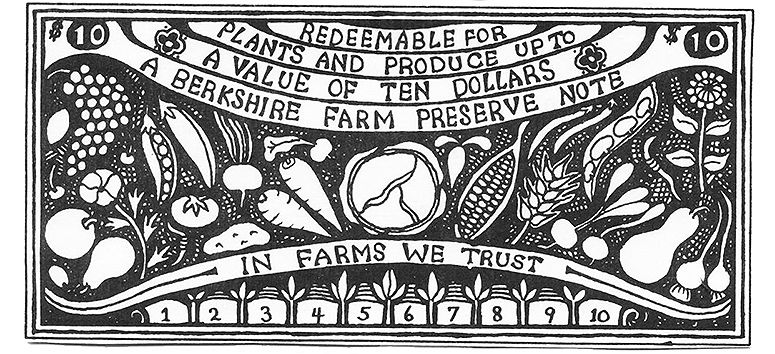
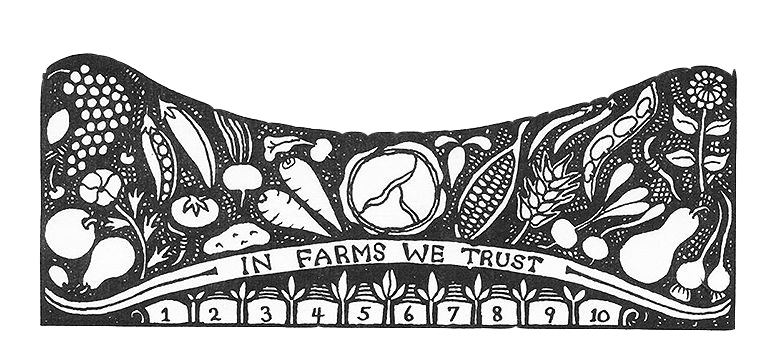
Added cleaned up images for testing, shuffled content around on users index and added an about us section, attempted search bar on gardens index, edited content on gardens show page, hippiefied login and logout messages

Changed region(s): [[0.031, 0.0, 0.991, 0.9944]]

diff --git a/app/assets/stylesheets/users.scss b/app/assets/stylesheets/users.scss
@@ -18,7 +18,8 @@
 #grow-local,
 #hippies-share,
 #share-land,
-#veg-out {
+#veg-out,
+#about {
     padding-top: 105px;
 }
 
@@ -35,6 +36,13 @@
 #grow-local {
     position: absolute;
     top: 1100px;
+}
+
+#about {
+    z-index: 5;
+    position: absolute;
+    top: 2950px;
+    width: 100%;
 }
 
 #content h1 {
@@ -152,4 +160,30 @@
     position: absolute;
     top: 1020px;
     left: 450px;
+}
+/* about us section */
+#about-us {
+  width: 100px;
+  height: 100px;
+  border-radius: 50%;
+}
+/* about us header */
+#about h1 {
+  font-size: 4.2rem;
+  line-height: 110%;
+  margin: 2.1rem 0 1.68rem;
+  text-align: center;
+}
+/* width of each about us column*/
+.row .col.s4 {
+  width: 33.333%;
+  margin-left: auto;
+  left: auto;
+  right: auto;
+}
+/* width of entire about us row*/
+.container .row {
+  margin-left: -0.75rem;
+  margin-right: -0.75rem;
+  width: 100%;
 }

diff --git a/app/assets/stylesheets/application.scss b/app/assets/stylesheets/application.scss
@@ -178,7 +178,7 @@ input:not([type]), input[type=text], input[type=password], input[type=email], in
     border-radius: 0;
     outline: none;
     height: 3rem;
-    width: 30%;
+    width: 55%;
     font-size: 1rem;
     margin: 0 0 20px 0;
     padding: 0;

diff --git a/app/controllers/sessions_controller.rb b/app/controllers/sessions_controller.rb
@@ -10,7 +10,7 @@ class SessionsController < ApplicationController
     if @user && @user.authenticate(params[:password])
       session[:user_id] = @user.id
       # flash.now[:notice] = "Logged in!"
-      redirect_to root_url, notice: "Logged in!"
+      redirect_to root_url, notice: "Good vibes..."
     else
       # render :new, alert: "Bad login"
       flash.now[:alert] = "Invalid email or password"
@@ -20,7 +20,7 @@ class SessionsController < ApplicationController
 
   def destroy
     session[:user_id] = nil
-    redirect_to root_url, notice: "Logged out!"
+    redirect_to root_url, notice: "Peace out!"
   end
 
 end
